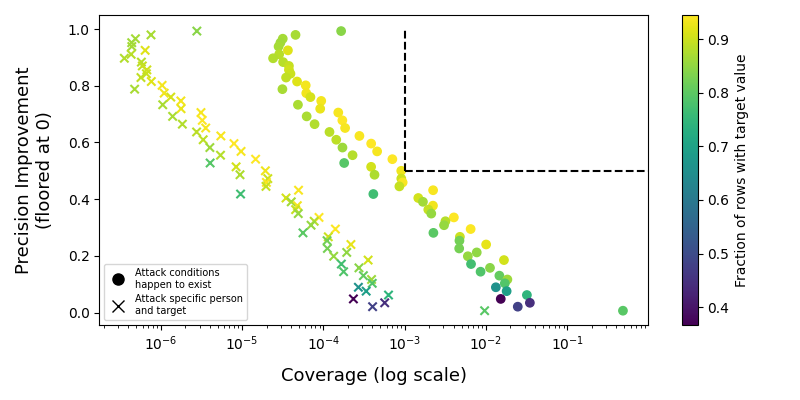
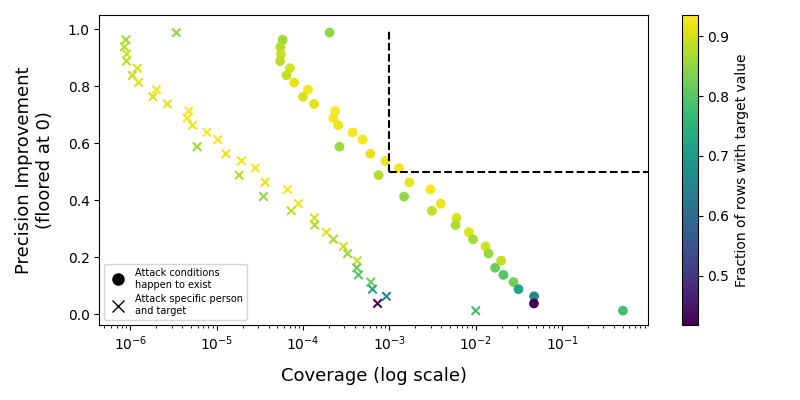
plots

diff --git a/suppress_threshold_attack.py b/suppress_threshold_attack.py
@@ -247,6 +247,7 @@ def make_bin_scatterplot(df_bin, color_by, label, filename, pi_floor):
         Line2D([0], [0], marker='x', color='black', markerfacecolor='black', markersize=8, label='Attack specific person\nand target', linestyle='None')]
     plt.legend(handles=legend_elements, loc='lower left', fontsize=7)
     plt.tight_layout()
+    filename += f"_{num_bins}.png"
     plot_path = os.path.join(attack_path, filename)
     plt.savefig(plot_path)
     plt.close()
@@ -287,7 +288,7 @@ def do_plots():
     print(f"Count of rows where pi_fl == 1: {count_pi_fl_1}")
 
     # Make a scatterplot of pi_fl vs coverage
-    num_bins = 40
+    num_bins = 80
     df_temp = X_test_all.copy()
     df_temp['bin'] = pd.cut(df_temp['pi_fl'], bins=num_bins)
     df_bin = df_temp.groupby('bin', observed=True).size().reset_index(name='count')
@@ -326,10 +327,10 @@ def do_plots():
 
     # Create a basic scatterplot from the bins
     for color_by, label, filename in [
-        ('bs_avg', 'Fraction best match syn table', 'pi_cov_bins_frac_bs.png'),
-        ('frac_tar_avg', 'Fraction of rows with target value', 'pi_cov_bins_frac_tar.png'),
-        ('prob_baseline_avg', 'Baseline positive prediction probability', 'pi_cov_bins_baseline.png'),
-        ('prob_full_attack_avg', 'Model positive prediction probability', 'pi_cov_bins_prob_full.png'),
+        ('bs_avg', 'Fraction best match syn table', 'pi_cov_bins_frac_bs'),
+        ('frac_tar_avg', 'Fraction of rows with target value', 'pi_cov_bins_frac_tar'),
+        ('prob_baseline_avg', 'Baseline positive prediction probability', 'pi_cov_bins_baseline'),
+        ('prob_full_attack_avg', 'Model positive prediction probability', 'pi_cov_bins_prob_full'),
         ]:
         make_bin_scatterplot(df_bin, color_by, label, filename, pi_floor)
 
